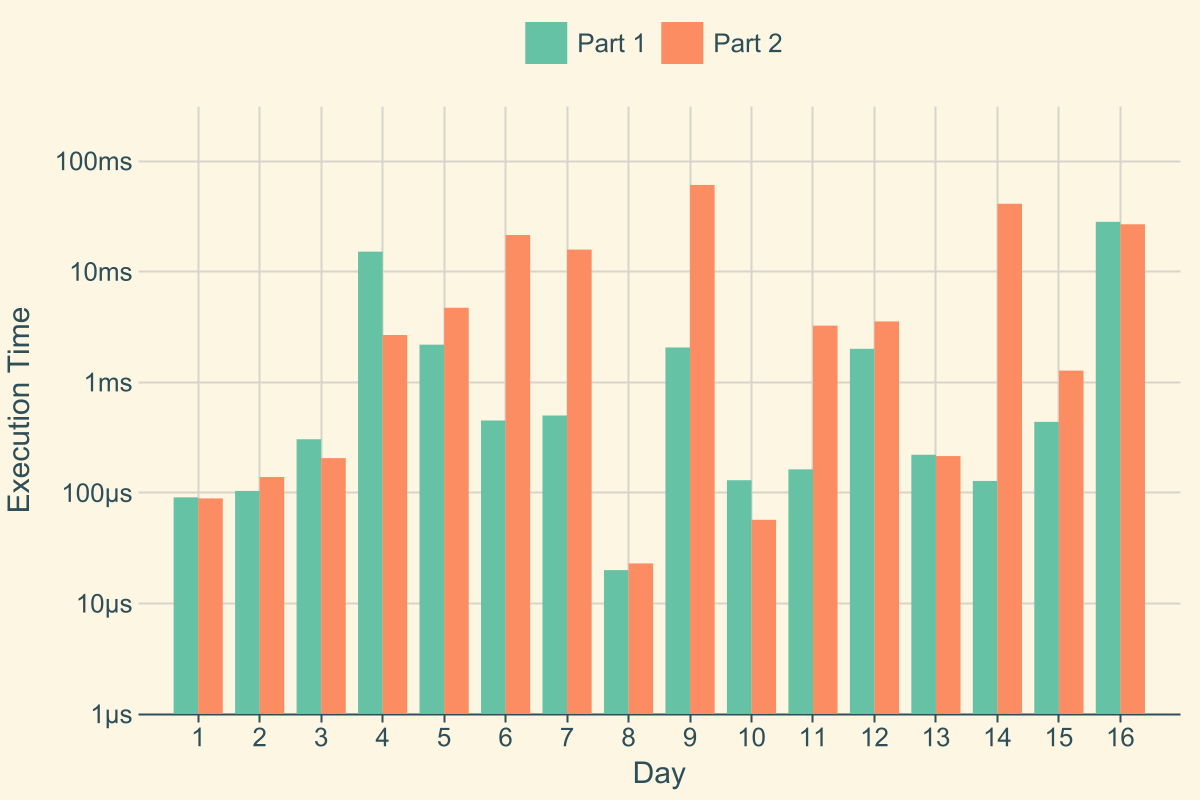
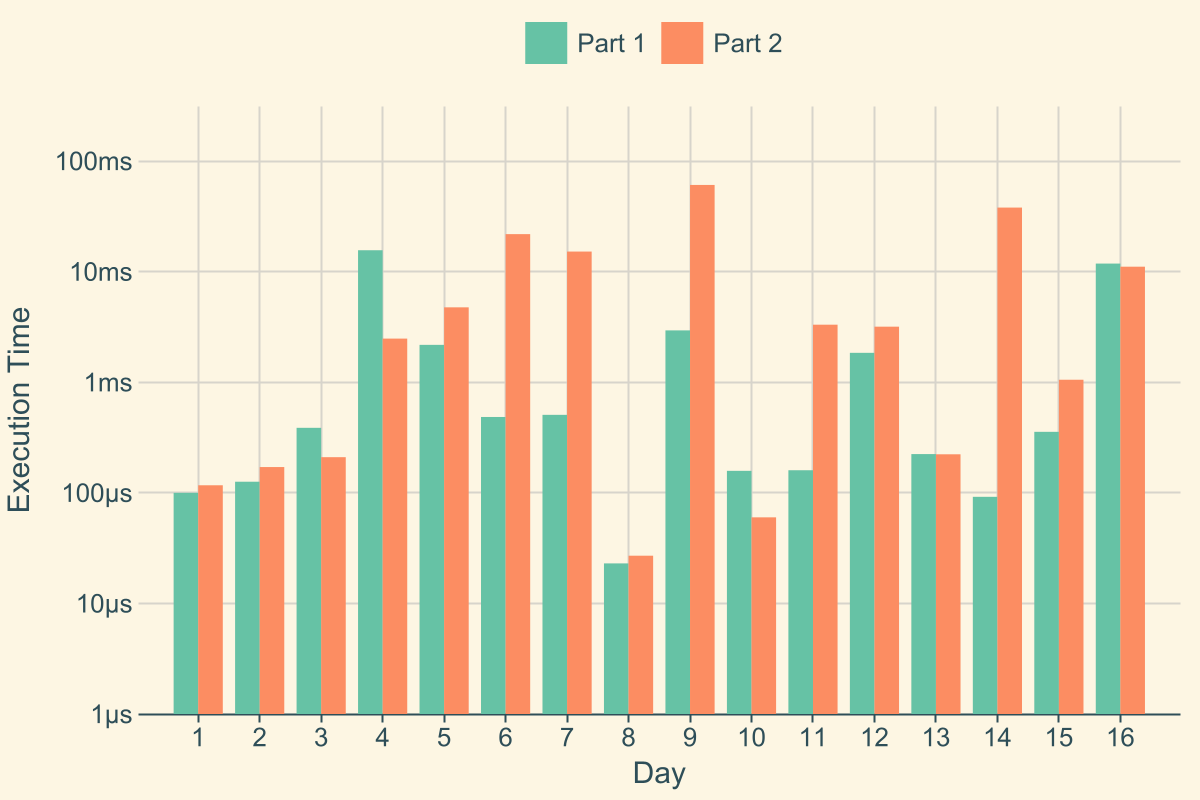
day16 optimization

diff --git a/src/day16.rs b/src/day16.rs
@@ -141,13 +141,11 @@ fn best_cost(input: &Input) -> Option<(i32, Node, HashMap<Node, Vec<Node>>)> {
     let mut f_score = HashMap::new();
     f_score.insert(start, h(start));
 
-    while !open_set.is_empty() {
-        // this is very expensive, as in 80% of the runtime
-        let current = *open_set
-            .iter()
-            .min_by_key(|e| f_score.get(e).cloned().unwrap_or(i32::MAX))
-            .unwrap();
-
+    while let Some(current) = open_set
+        .iter()
+        .min_by_key(|e| f_score.get(e).cloned().unwrap_or(i32::MAX))
+        .cloned()
+    {
         if current.position == input.end_position {
             return g_score
                 .iter()
@@ -160,6 +158,7 @@ fn best_cost(input: &Input) -> Option<(i32, Node, HashMap<Node, Vec<Node>>)> {
         Vec2::CARDINAL_DIRECTIONS
             .iter()
             .filter(|&&direction| matches!(input.get(current.position + direction), Tile::Empty))
+            .filter(|&&direction| direction != current.direction * -1)
             .map(|&direction| {
                 (
                     Node::new(current.position + direction, direction),
